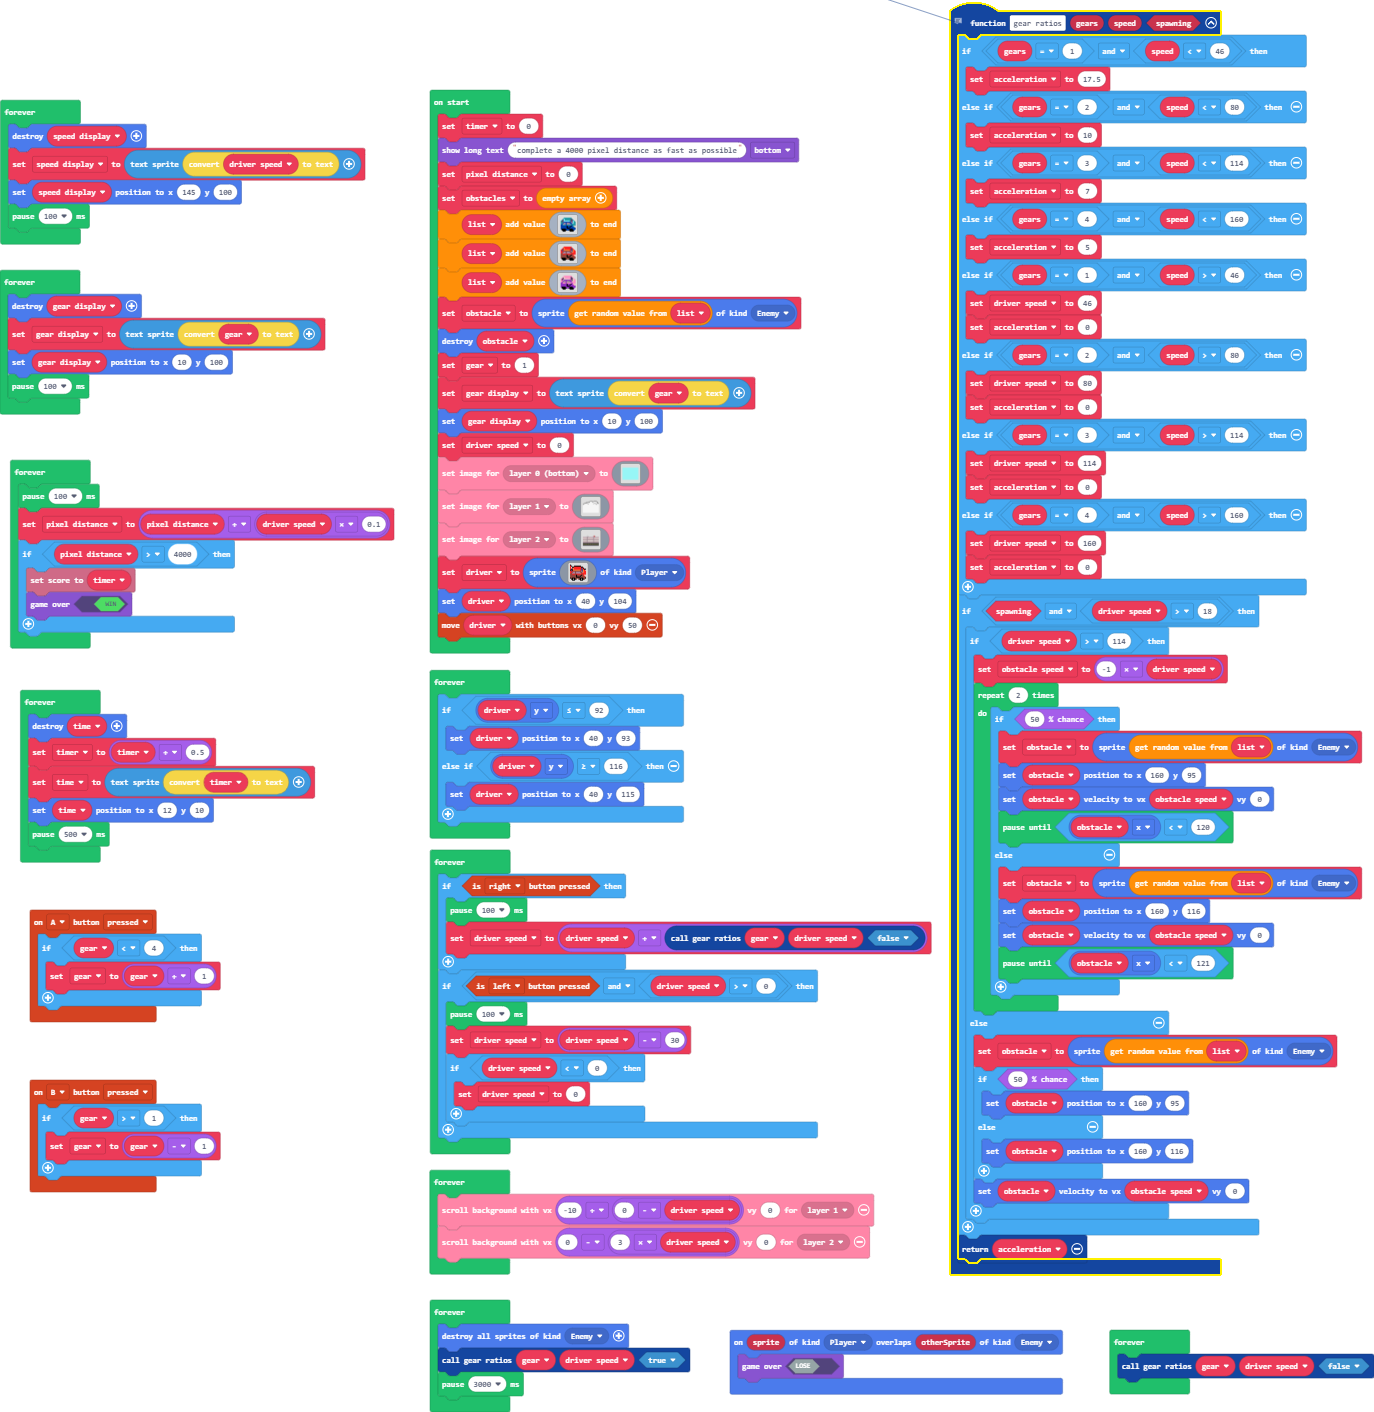
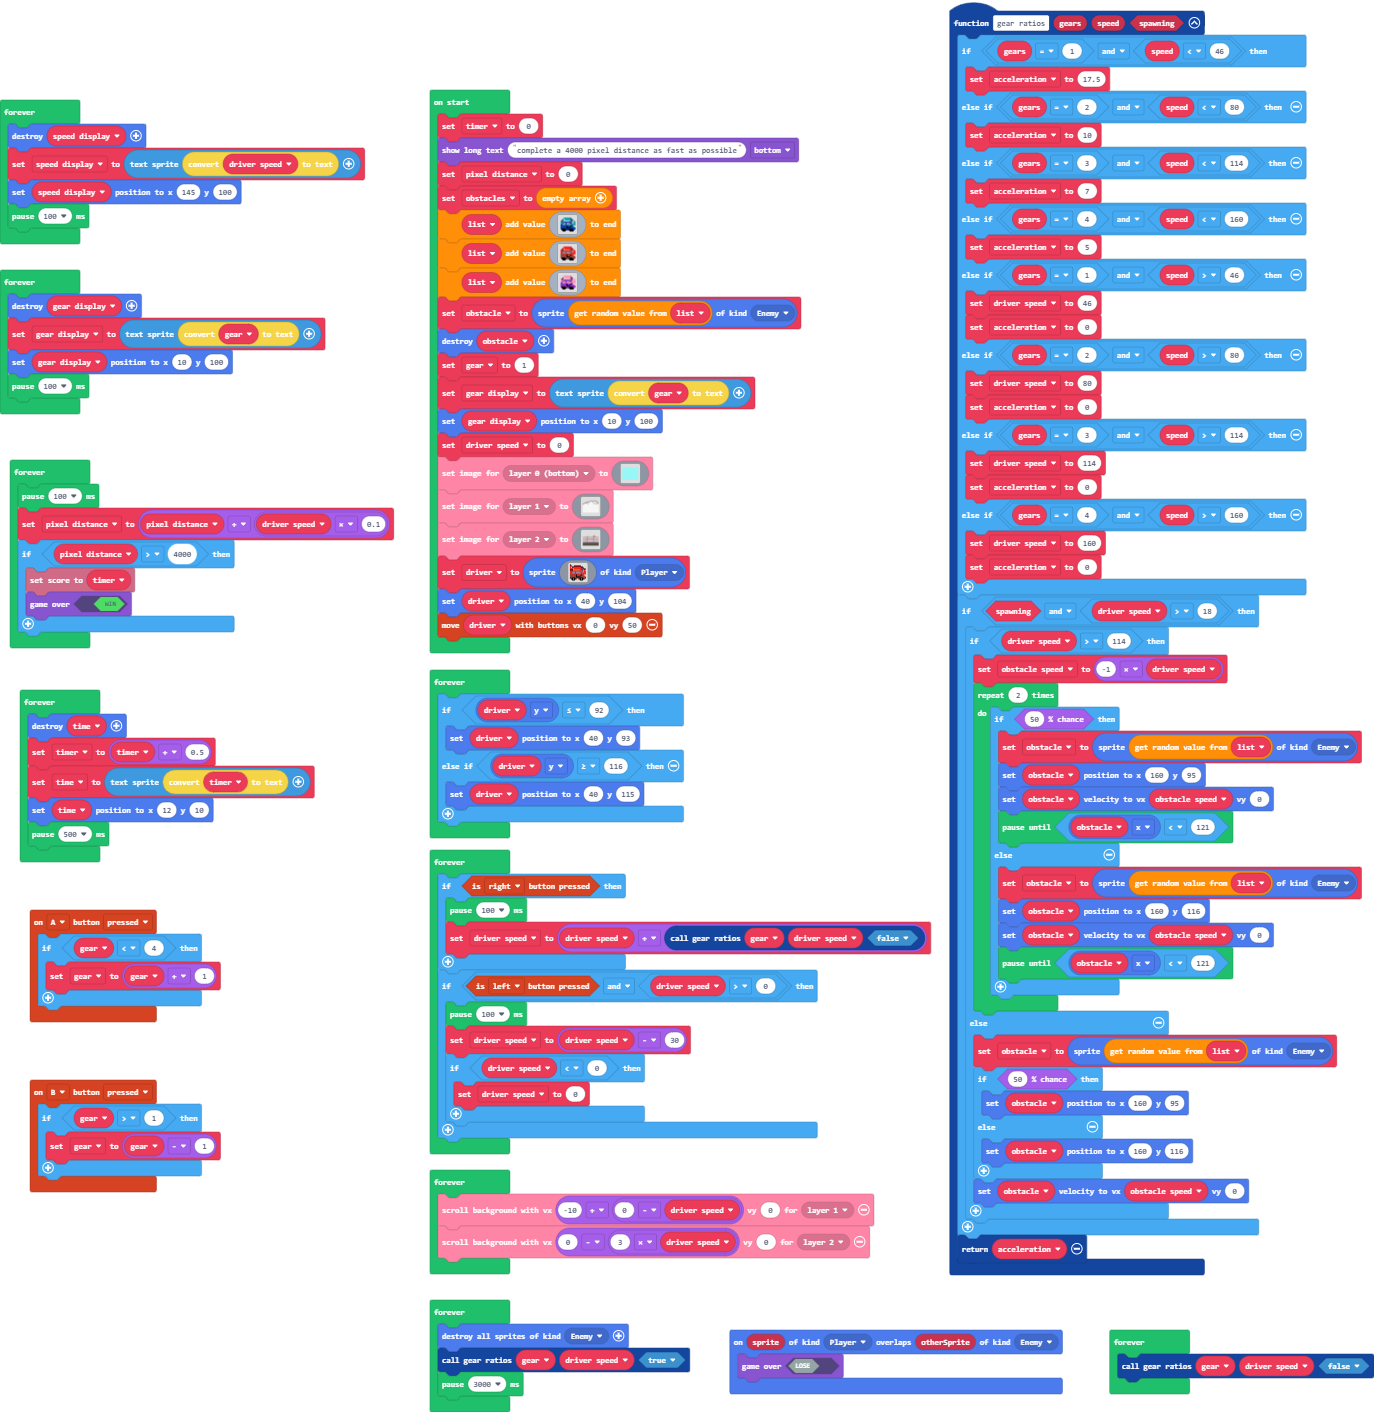
Update main.blocks, main.ts

diff --git a/main.ts b/main.ts
@@ -31,7 +31,7 @@ function gear_ratios (gears: number, speed: number, spawning: boolean) {
                     obstacle = sprites.create(list._pickRandom(), SpriteKind.Enemy)
                     obstacle.setPosition(160, 95)
                     obstacle.setVelocity(obstacle_speed, 0)
-                    pauseUntil(() => obstacle.x < 120)
+                    pauseUntil(() => obstacle.x < 121)
                 } else {
                     obstacle = sprites.create(list._pickRandom(), SpriteKind.Enemy)
                     obstacle.setPosition(160, 116)
